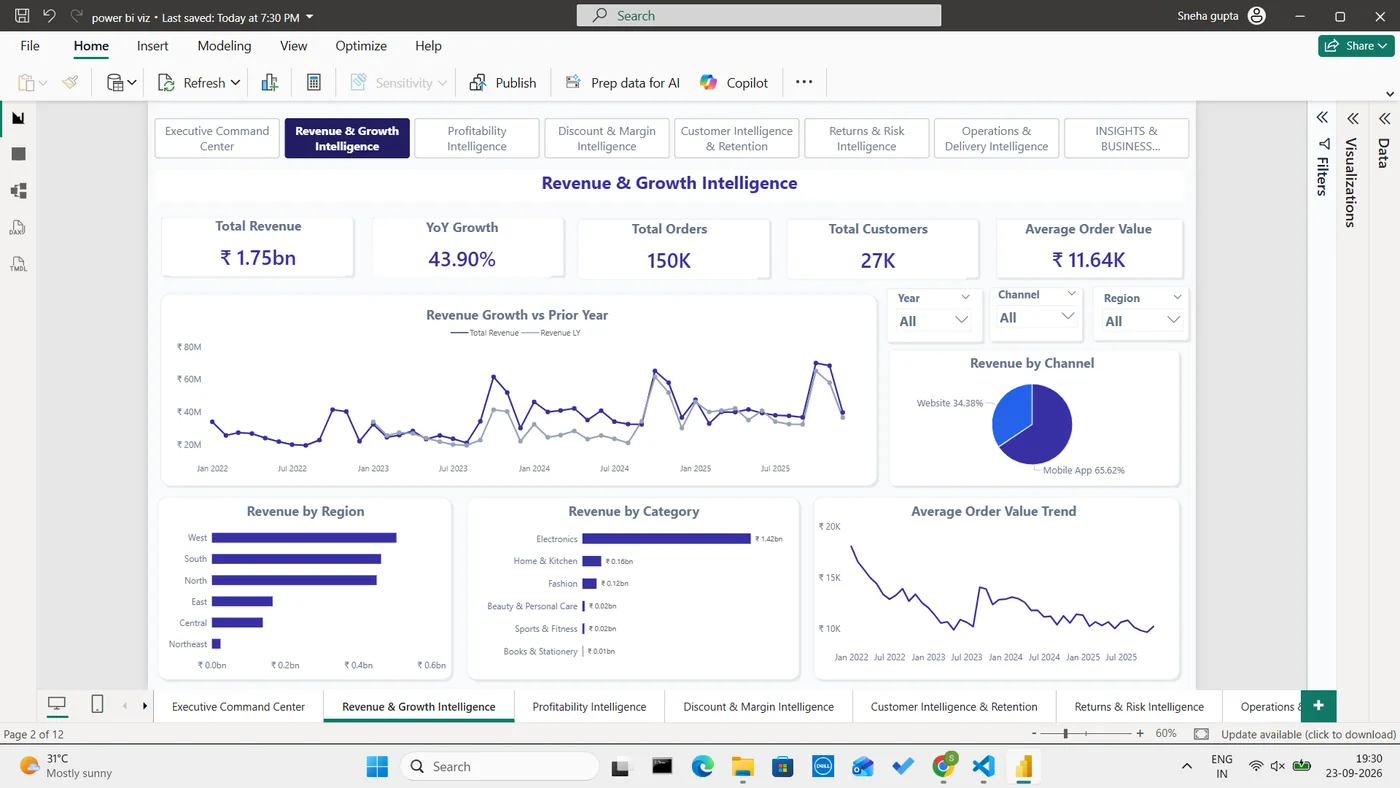
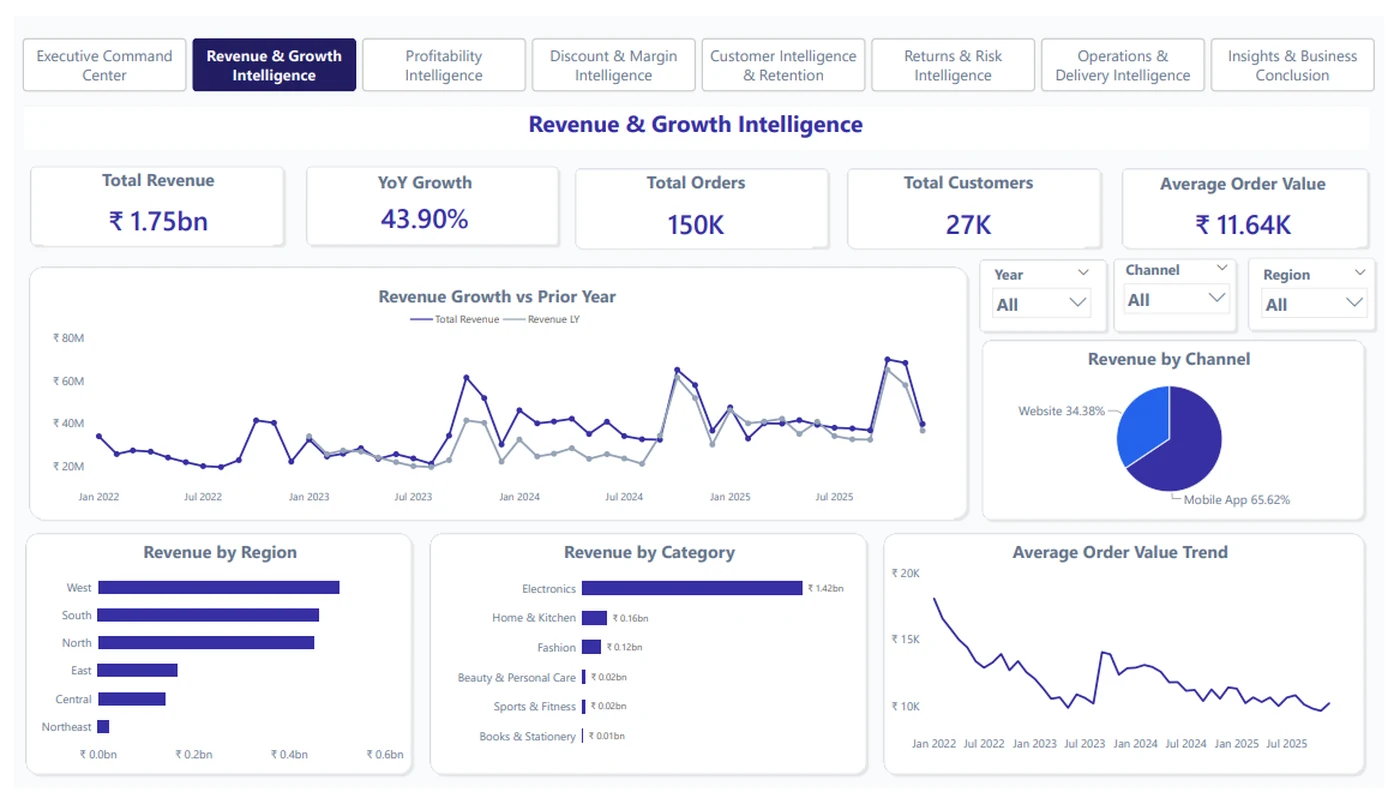
Update portfolio

diff --git a/projects/shopkart.html b/projects/shopkart.html
@@ -99,7 +99,7 @@ ORDER BY MIN(discount_percent);</code></pre></div>
       <section class="cs-section">
         <div class="cs-head"><span class="cs-num">10</span><h2>Dashboard showcase</h2></div>
         <div class="prose"><p>An eight-page report, each page built around one business question. Click a screenshot to enlarge.</p></div>
-        <div class="gallery"><figure class="shot shot--wide"><img src="../assets/images/projects/shopkart/shopkart-revenue-growth.webp" alt="Revenue &amp; Growth Intelligence" width="1400" height="788" loading="lazy" data-zoom><figcaption><strong>Revenue &amp; Growth Intelligence</strong>Where is growth coming from? Revenue trend by channel, region and category. The YoY card uses the dashboard's own measure; calendar-year growth (+17.5%, +31.8%, +5.5%) is quoted in the findings above.</figcaption></figure><figure class="shot"><img src="../assets/images/projects/shopkart/shopkart-profitability.webp" alt="Profitability Intelligence" width="1400" height="786" loading="lazy" data-zoom><figcaption><strong>Profitability Intelligence</strong>Which parts of the business actually create profit? Products, categories, sellers and leakage candidates.</figcaption></figure><figure class="shot"><img src="../assets/images/projects/shopkart/shopkart-discount-margin.webp" alt="Discount &amp; Margin Intelligence" width="1400" height="783" loading="lazy" data-zoom><figcaption><strong>Discount &amp; Margin Intelligence</strong>Where do discounts help sales, and where do they destroy margin?</figcaption></figure><figure class="shot"><img src="../assets/images/projects/shopkart/shopkart-customer-retention.webp" alt="Customer Intelligence &amp; Retention" width="1400" height="780" loading="lazy" data-zoom><figcaption><strong>Customer Intelligence &amp; Retention</strong>Who creates value, and where is retention risk concentrated? RFM segments and at-risk revenue.</figcaption></figure><figure class="shot"><img src="../assets/images/projects/shopkart/shopkart-returns-risk.webp" alt="Returns &amp; Risk Intelligence" width="1400" height="786" loading="lazy" data-zoom><figcaption><strong>Returns &amp; Risk Intelligence</strong>Where is value lost through returns? Reasons, status and product-level impact.</figcaption></figure><figure class="shot"><img src="../assets/images/projects/shopkart/shopkart-operations-delivery.webp" alt="Operations &amp; Delivery Intelligence" width="1400" height="781" loading="lazy" data-zoom><figcaption><strong>Operations &amp; Delivery Intelligence</strong>Where are fulfilment bottlenecks? Warehouses, delivery partners and delay trends.</figcaption></figure><figure class="shot"><img src="../assets/images/projects/shopkart/shopkart-insights.webp" alt="Insights &amp; Business Conclusion" width="1400" height="785" loading="lazy" data-zoom><figcaption><strong>Insights &amp; Business Conclusion</strong>The findings from the previous pages, rated by severity.</figcaption></figure></div>
+        <div class="gallery"><figure class="shot shot--wide"><img src="../assets/images/projects/shopkart/shopkart-executive-command-center.webp" alt="Executive Command Center" width="1400" height="795" loading="lazy" data-zoom><figcaption><strong>Executive Command Center</strong>The one-page summary: revenue, profit and margin, monthly trend, customer segments, profit by category and a business-health table (discount exposure, return impact, at-risk revenue, loss- and low-margin revenue, repeat rate).</figcaption></figure><figure class="shot"><img src="../assets/images/projects/shopkart/shopkart-revenue-growth.webp" alt="Revenue &amp; Growth Intelligence" width="1400" height="798" loading="lazy" data-zoom><figcaption><strong>Revenue &amp; Growth Intelligence</strong>Where is growth coming from? Revenue trend by channel, region and category. The YoY card uses the dashboard's own measure; calendar-year growth (+17.5%, +31.8%, +5.5%) is quoted in the findings above.</figcaption></figure><figure class="shot"><img src="../assets/images/projects/shopkart/shopkart-profitability.webp" alt="Profitability Intelligence" width="1400" height="786" loading="lazy" data-zoom><figcaption><strong>Profitability Intelligence</strong>Which parts of the business actually create profit? Products, categories, sellers and leakage candidates.</figcaption></figure><figure class="shot"><img src="../assets/images/projects/shopkart/shopkart-discount-margin.webp" alt="Discount &amp; Margin Intelligence" width="1400" height="783" loading="lazy" data-zoom><figcaption><strong>Discount &amp; Margin Intelligence</strong>Where do discounts help sales, and where do they destroy margin?</figcaption></figure><figure class="shot"><img src="../assets/images/projects/shopkart/shopkart-customer-retention.webp" alt="Customer Intelligence &amp; Retention" width="1400" height="780" loading="lazy" data-zoom><figcaption><strong>Customer Intelligence &amp; Retention</strong>Who creates value, and where is retention risk concentrated? RFM segments and at-risk revenue.</figcaption></figure><figure class="shot"><img src="../assets/images/projects/shopkart/shopkart-returns-risk.webp" alt="Returns &amp; Risk Intelligence" width="1400" height="786" loading="lazy" data-zoom><figcaption><strong>Returns &amp; Risk Intelligence</strong>Where is value lost through returns? Reasons, status and product-level impact.</figcaption></figure><figure class="shot"><img src="../assets/images/projects/shopkart/shopkart-operations-delivery.webp" alt="Operations &amp; Delivery Intelligence" width="1400" height="781" loading="lazy" data-zoom><figcaption><strong>Operations &amp; Delivery Intelligence</strong>Where are fulfilment bottlenecks? Warehouses, delivery partners and delay trends.</figcaption></figure><figure class="shot"><img src="../assets/images/projects/shopkart/shopkart-insights.webp" alt="Insights &amp; Business Conclusion" width="1400" height="785" loading="lazy" data-zoom><figcaption><strong>Insights &amp; Business Conclusion</strong>The findings from the previous pages, rated by severity.</figcaption></figure></div>
       </section>
       <section class="cs-section">
         <div class="cs-head"><span class="cs-num">11</span><h2>Technical implementation</h2></div>
